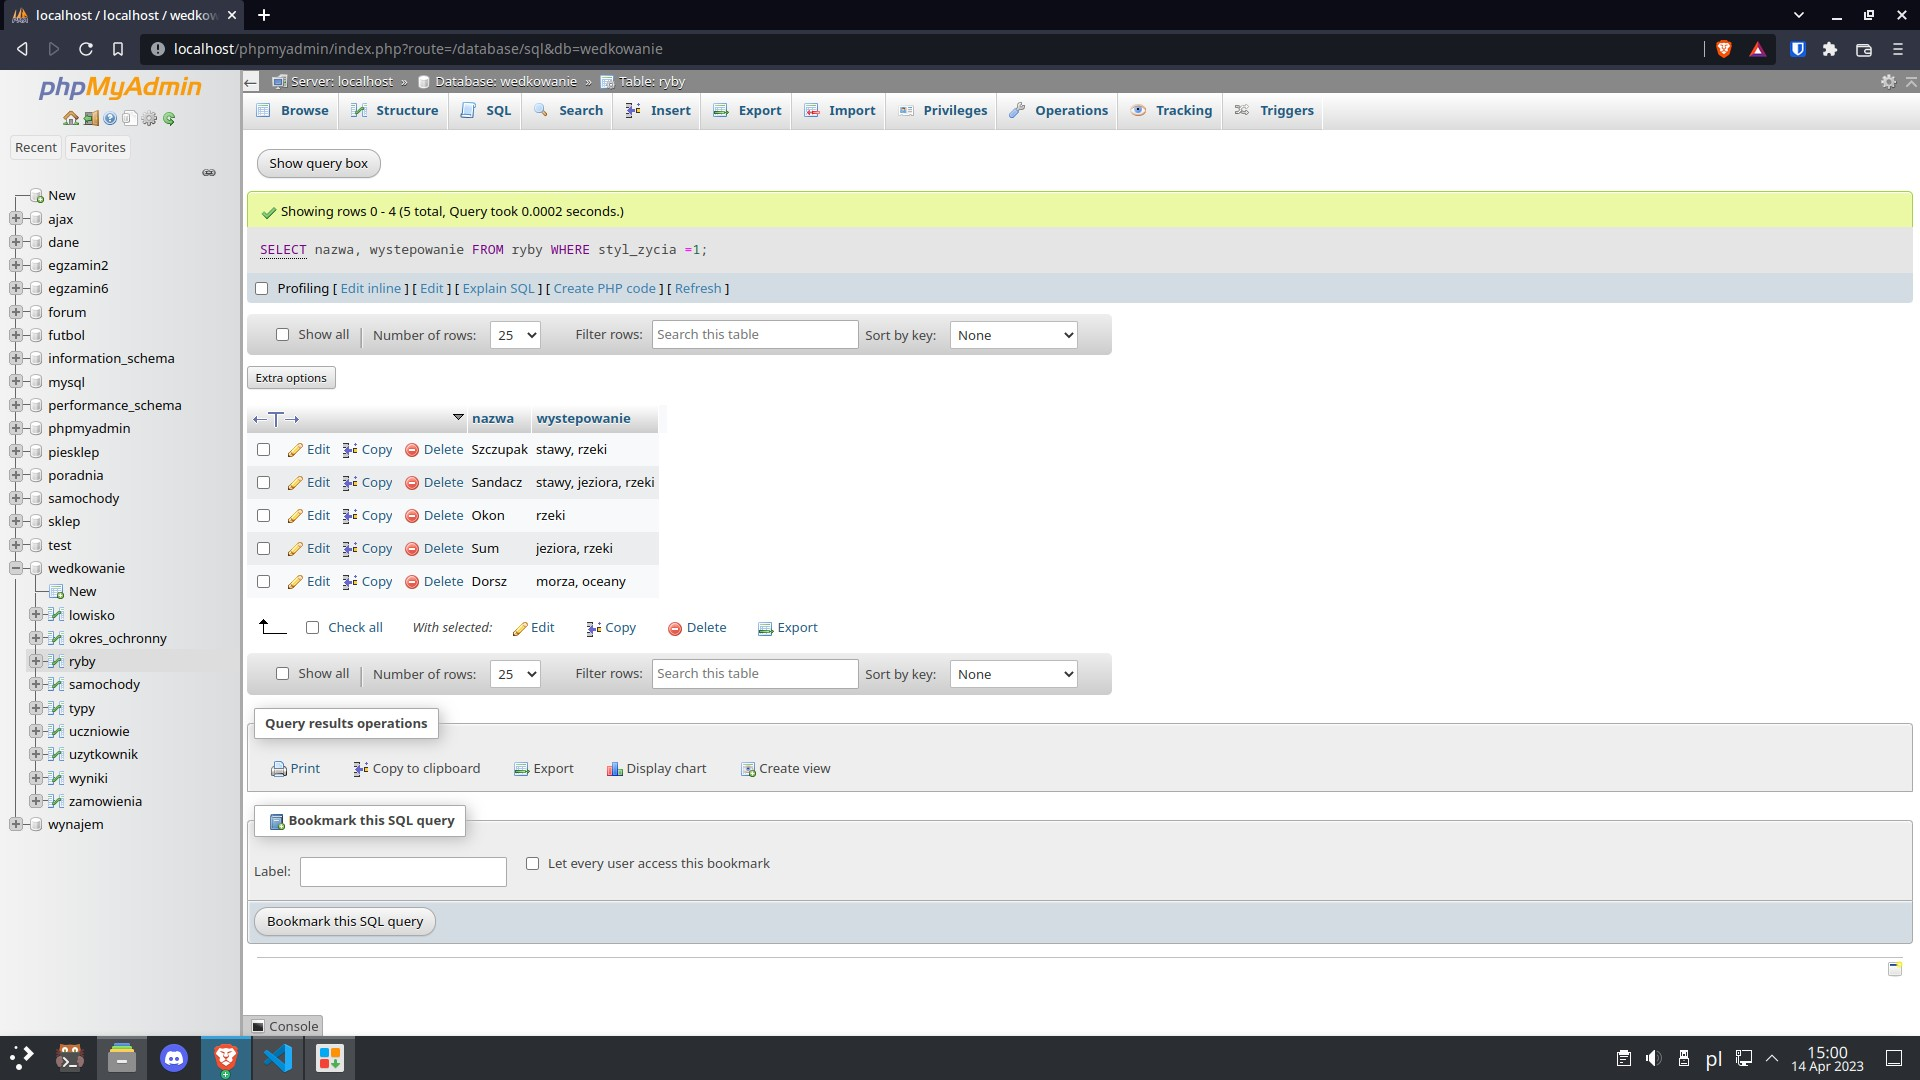
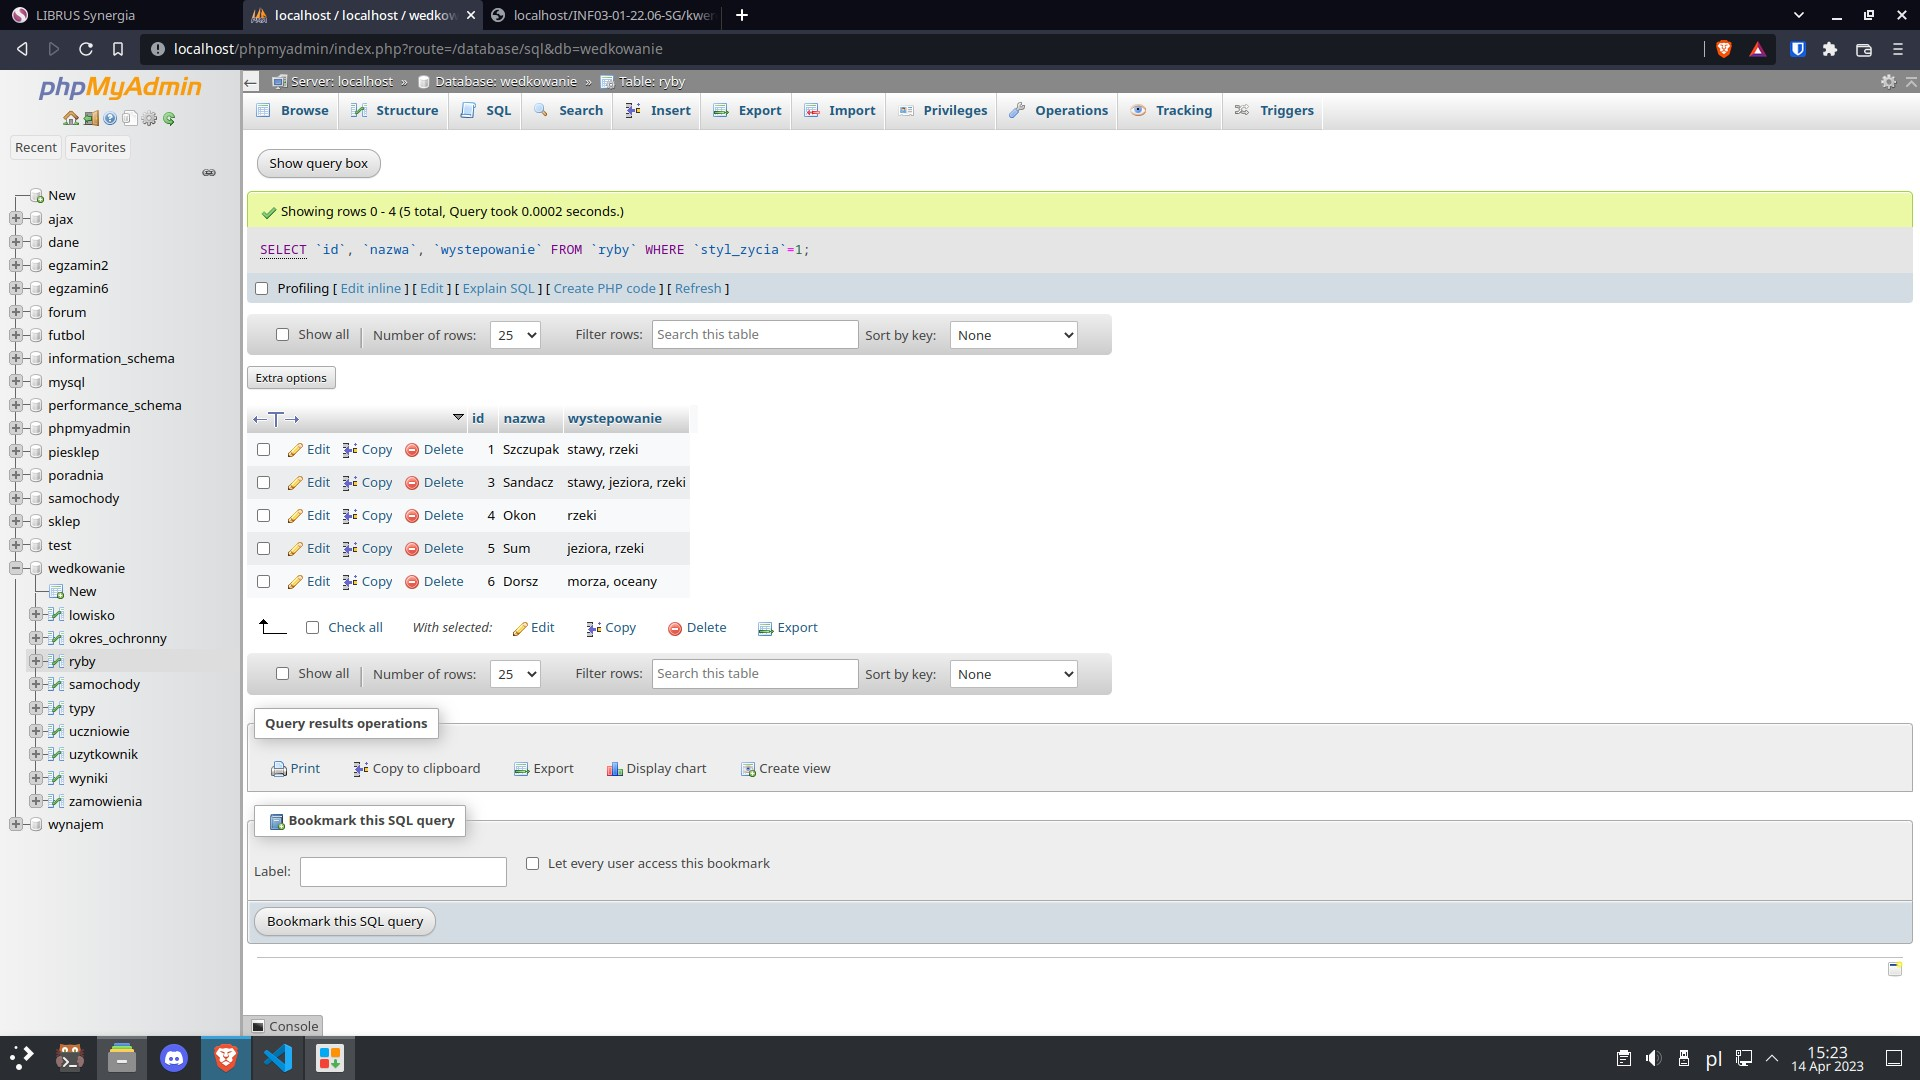
fix

Changed region(s): [[0.25, 0.3667, 0.375, 0.55], [0.0, 0.0, 0.375, 0.0306], [0.1562, 0.2139, 0.4062, 0.2444]]

diff --git a/INF03-01-22.06-SG/styl_1.css b/INF03-01-22.06-SG/styl_1.css
@@ -1,44 +1,82 @@
-body{
-    font-family: Verdana;
-    margin: 0;
-}
-#baner{
-    background-color: #4682B4;
+body {
+    font-family: Helvetica;
+    margin: auto;
+  }
+  
+  #baner {
+    background-color: #00838F;
     color: white;
-    padding: 20px;
-    font-size: 120%;
-    text-align: center;
-}
-#baner h1{
-    top: 0;
-    margin: 0;
-}
-#lewy{
-    float: left;
-    background-color: #40E0D0;
-    width: 40%;
-    height: 500px;
-}
-#lewy li, h2{
-    margin-left: 10px;
-}
-#prawy{
-    float: left;
-    background-color: #40E0D0;
-    width: 60%;
-    height: 500px;
-}
-#prawy img{
     padding: 5px;
-    margin: 10px;
-    border: 1px solid #000080 ;
-}
-
-#stopka{
-    clear: both;
-    background-color: #4682B4;
-    color: white;
-    padding: 20px;
-    font-size: 120%;
+    font-size: 130%;
     text-align: center;
-}
+  }
+  
+  #stopka {
+    background-color: #00838F;
+    color: white;
+    padding: 5px;
+    font-size: 130%;
+    text-align: center;
+    clear: both;
+  }
+  
+  #lewy1 {
+    background-color: #EFEFEF;
+    width: 55%;
+    float: left;
+    height: 150px;
+    padding: 15px;
+    box-sizing: border-box;
+  }
+  
+  
+  #prawy {
+    background-color: #4FB3BF;
+    width: 45%;
+    height: 450px;
+    text-align: center;
+    float: right;
+  }
+  
+  #lewy2 {
+    background-color: #EFEFEF;
+    width: 55%;
+    height: 300px;
+    float: left;
+    padding: 15px;
+    box-sizing: border-box;
+  }
+  
+  img {
+    box-shadow: 10px 10px 7px dimgray;
+    margin: 20px;
+  }
+  
+  tr {
+    border: 1px solid #4FB3BF;
+    border-collapse: collapse;
+  }
+  
+  td {
+    border: 1px solid #4FB3BF;
+    border-collapse: collapse;
+    padding: 4px;
+  }
+  
+  th {
+    border: 1px solid #4FB3BF;
+    border-collapse: collapse;
+    padding: 4px;
+  }
+  
+  table {
+    width: 80%;
+    margin: auto;
+    border: 1px solid #4FB3BF;
+    border-collapse: collapse;
+  
+  }
+  
+  tr:hover {
+    background-color: #4FB3BF;
+  }

diff --git a/INF03-01-22.06-SG/wedkuj.php b/INF03-01-22.06-SG/wedkuj.php
@@ -1,49 +1,56 @@
-<?php
-    $host='localhost';
-    $user = 'root';
-    $password = '';
-    $database = 'wedkowanie';
-
-    $connection = mysqli_connect($host, $user, $password, $database);
-
-    if(!$connection){
-        die('Błąd połączenia z bazą danych');
-    }
-?>
 <!DOCTYPE html>
-<html lang="pl">
 <head>
-    <meta charset="UTF-8">
-    <meta http-equiv="X-UA-Compatible" content="IE=edge">
-    <meta name="viewport" content="width=device-width, initial-scale=1.0">
-    <title>Wędkujemy</title>
-    <link rel="stylesheet" href="styl_1.css">
-</head> 
+  <meta charset="utf-8" />
+  <link rel="stylesheet" href="styl_1.css" type="text/css" />
+  <title> Wędkowanie</title>
+</head>
 <body>
-    <div id="baner">
-        <h1>Portal dla wędkarzy</h1>
-    </div>
-
-    <div id="lewy">
-        <h2>Ryby drapieżne naszych wód</h2>
-        <?php
-            $sql = "SELECT nazwa, wystepowanie FROM ryby WHERE styl_zycia =1;";
-            $result = mysqli_query($connection, $sql);
-
-            while($row = mysqli_fetch_assoc($result)){
-                echo "<li>{$row['nazwa']}, występowanie: {$row['wystepowanie']}</li>";
-            }
-        mysqli_close($connection);
-        ?>
-    </div>
-
-    <div id="prawy">
-        <img src="pliki1/ryba1.jpg" alt="Sum"><br>
-        <a href="kwerendy.txt">Pobierz kwerendy</a>
-    </div>
-
-    <div id="stopka">
-        <p>Stronę wykonał: OJ</p>
-    </div>
+  <div id="baner">
+    <h1> Portal dla wędkarzy </h1>
+  </div>
+  <div id="lewy1">
+    <h3> Ryby zamieszkujące rzeki</h3>
+    <ul>
+      <?php
+      $server = "localhost";
+      $user = "root";
+      $passwd = "";
+      $dbname = "wedkowanie";
+      $conn = mysqli_connect($server, $user, $passwd, $dbname);
+      if (!$conn) {
+        die("Nie działa");
+      }
+      $sql = "SELECT ryby.nazwa, lowisko.akwen, lowisko.wojewodztwo FROM ryby, lowisko WHERE ryby.id=lowisko.Ryby_id and lowisko.rodzaj = 3";
+      $zapytanie = mysqli_query($conn, $sql);
+      while ($wiersz = mysqli_fetch_row($zapytanie)) {
+        echo "<li>$wiersz[0]  pływa w rzece  $wiersz[1] , $wiersz[2]</li>";
+      }
+      ?>
+    </ul>
+  </div>
+  <div id="prawy">
+    <img src="ryba1.jpg" alt="Sum"><br>
+    <a href="kwerendy.txt">Pobierz kwerendy</a>
+  </div>
+  <div id="lewy2">
+    <h3>Ryby drapieżne naszych wód</h3>
+    <table>
+      <tr>
+        <th>L.p</th>
+        <th>Gatunek</th>
+        <th>Wystepowanie</th>
+      </tr>
+      <?php
+      $sql1 = "SELECT id, nazwa, wystepowanie FROM ryby WHERE styl_zycia=1";
+      $wynik = mysqli_query($conn, $sql1);
+      while ($wiersz1 = mysqli_fetch_row($wynik)) {
+        echo "<tr><td>$wiersz1[0]</td><td>$wiersz1[1]</td><td>$wiersz1[2]</td></tr>";
+      }
+      mysqli_close($conn);
+      ?>
+    </table>
+  </div>
+  <div id="stopka">
+    <p> Stronę wykonał: OJ</p>
+  </div>
 </body>
-</html>
